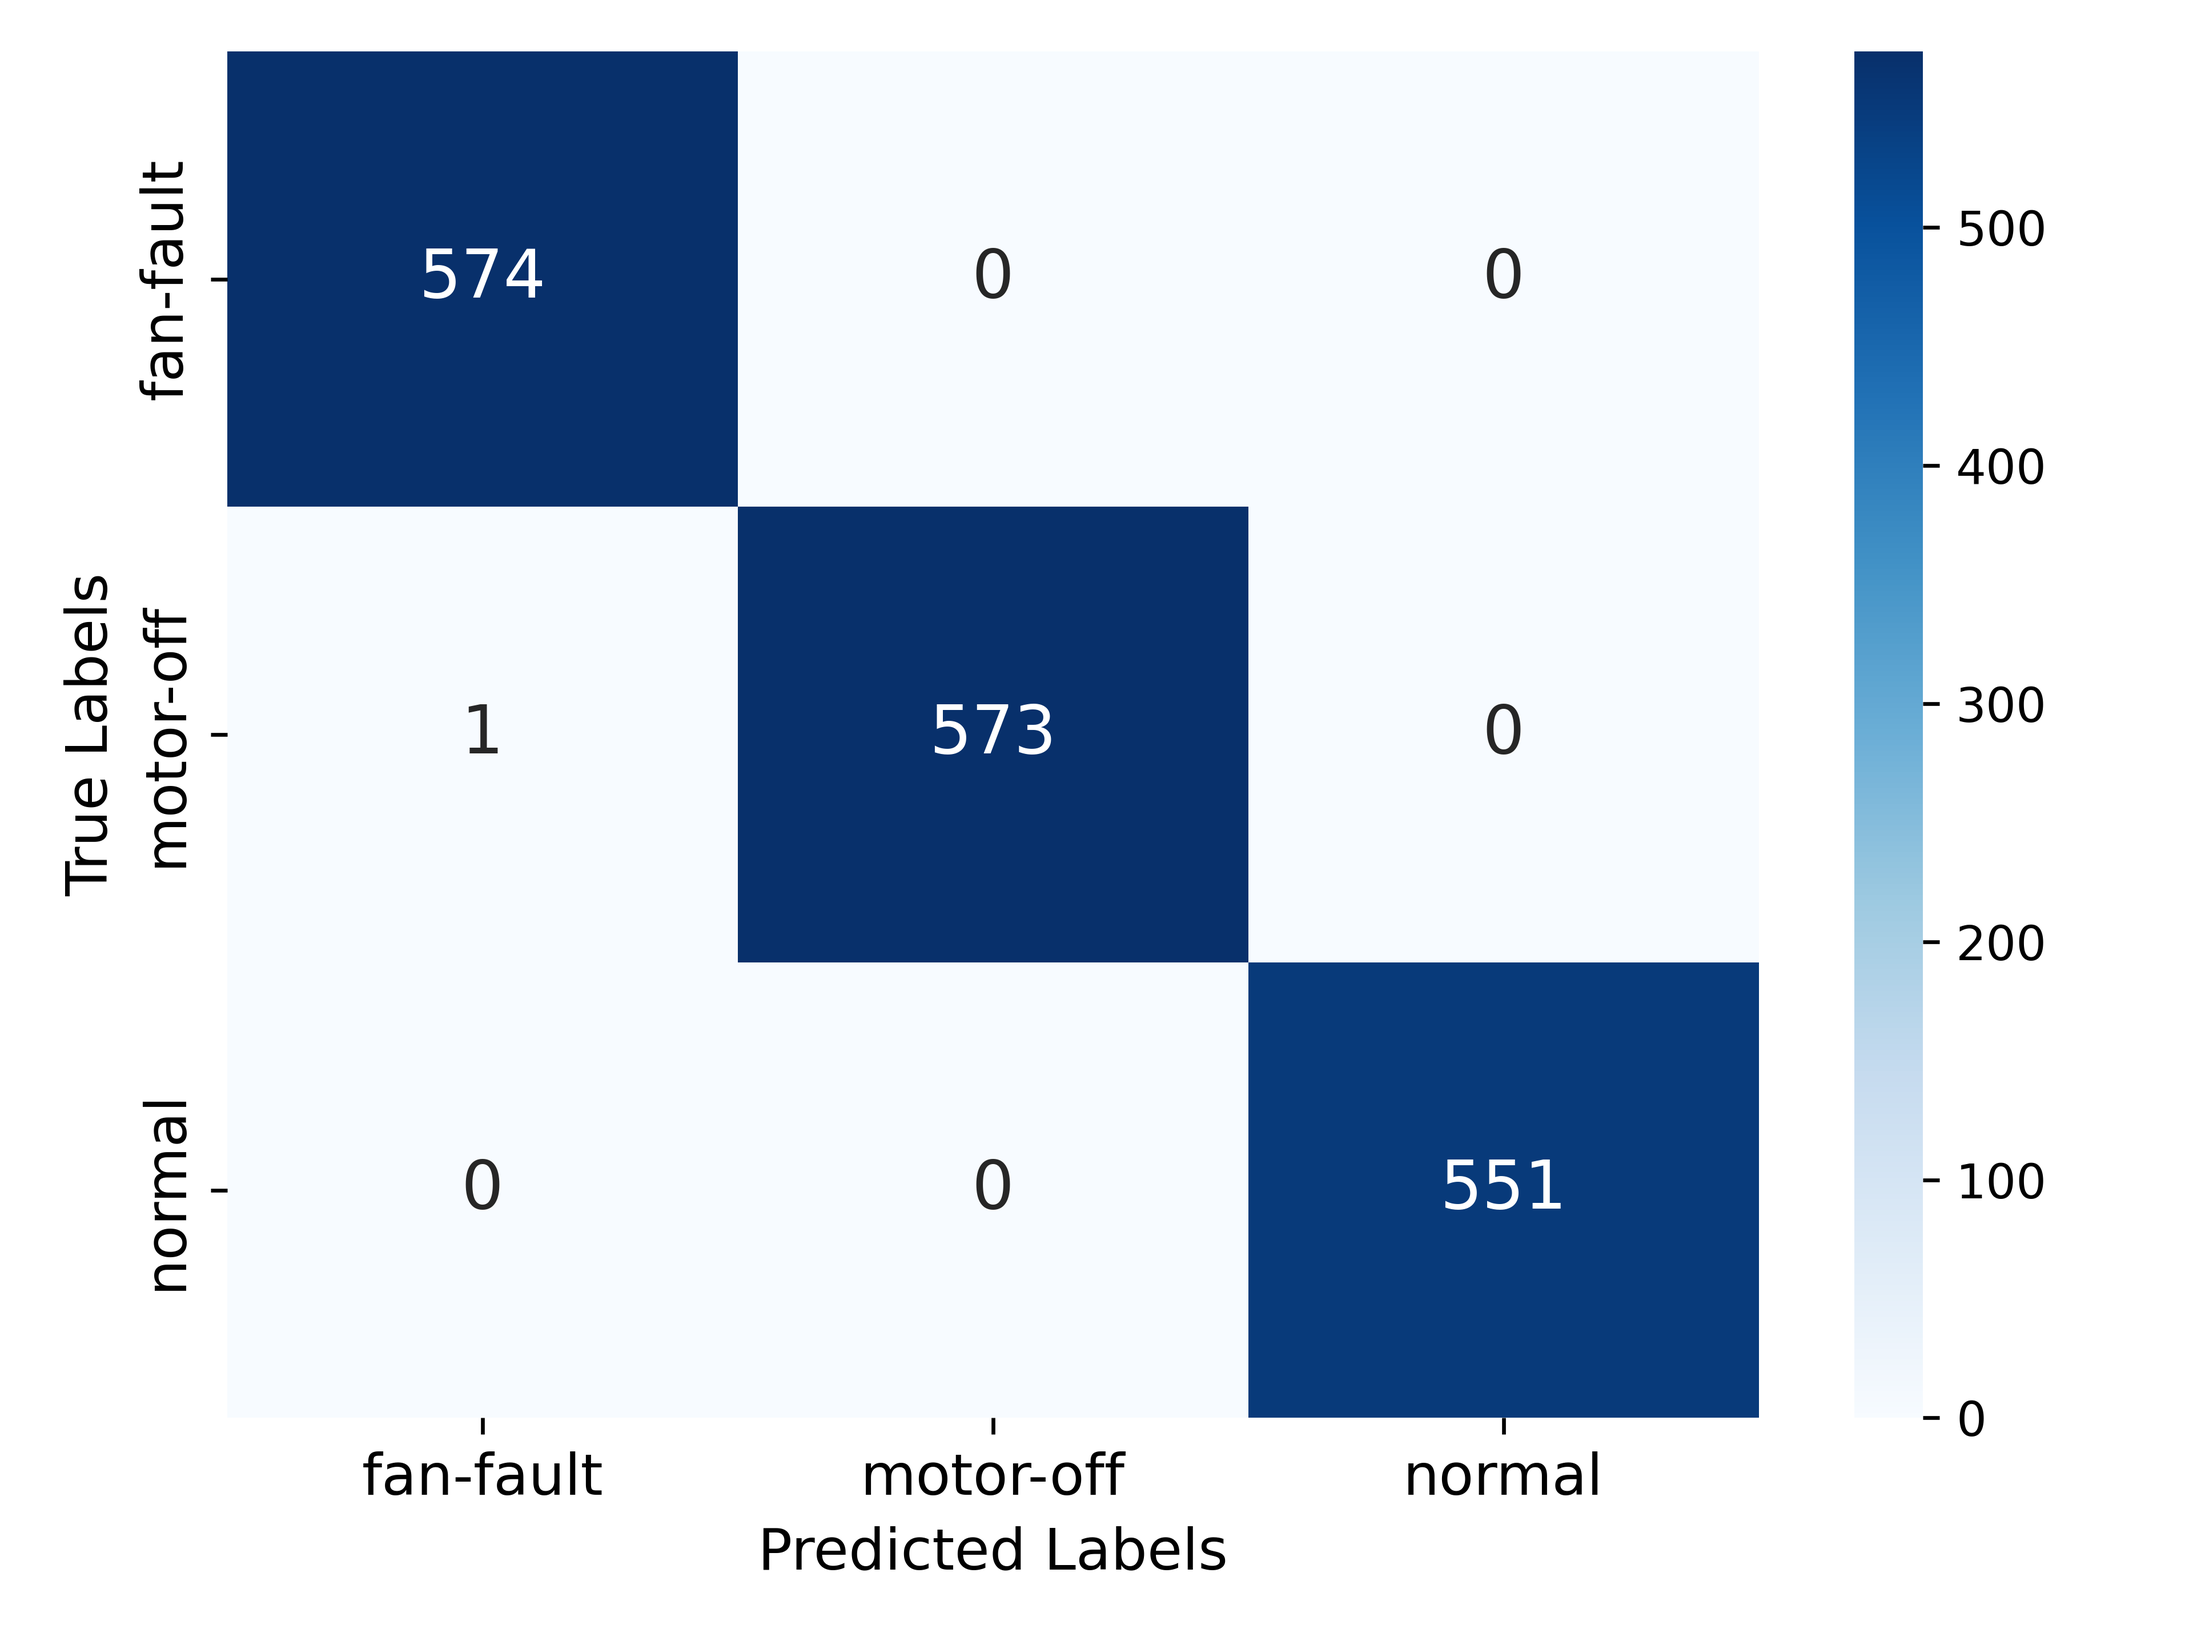
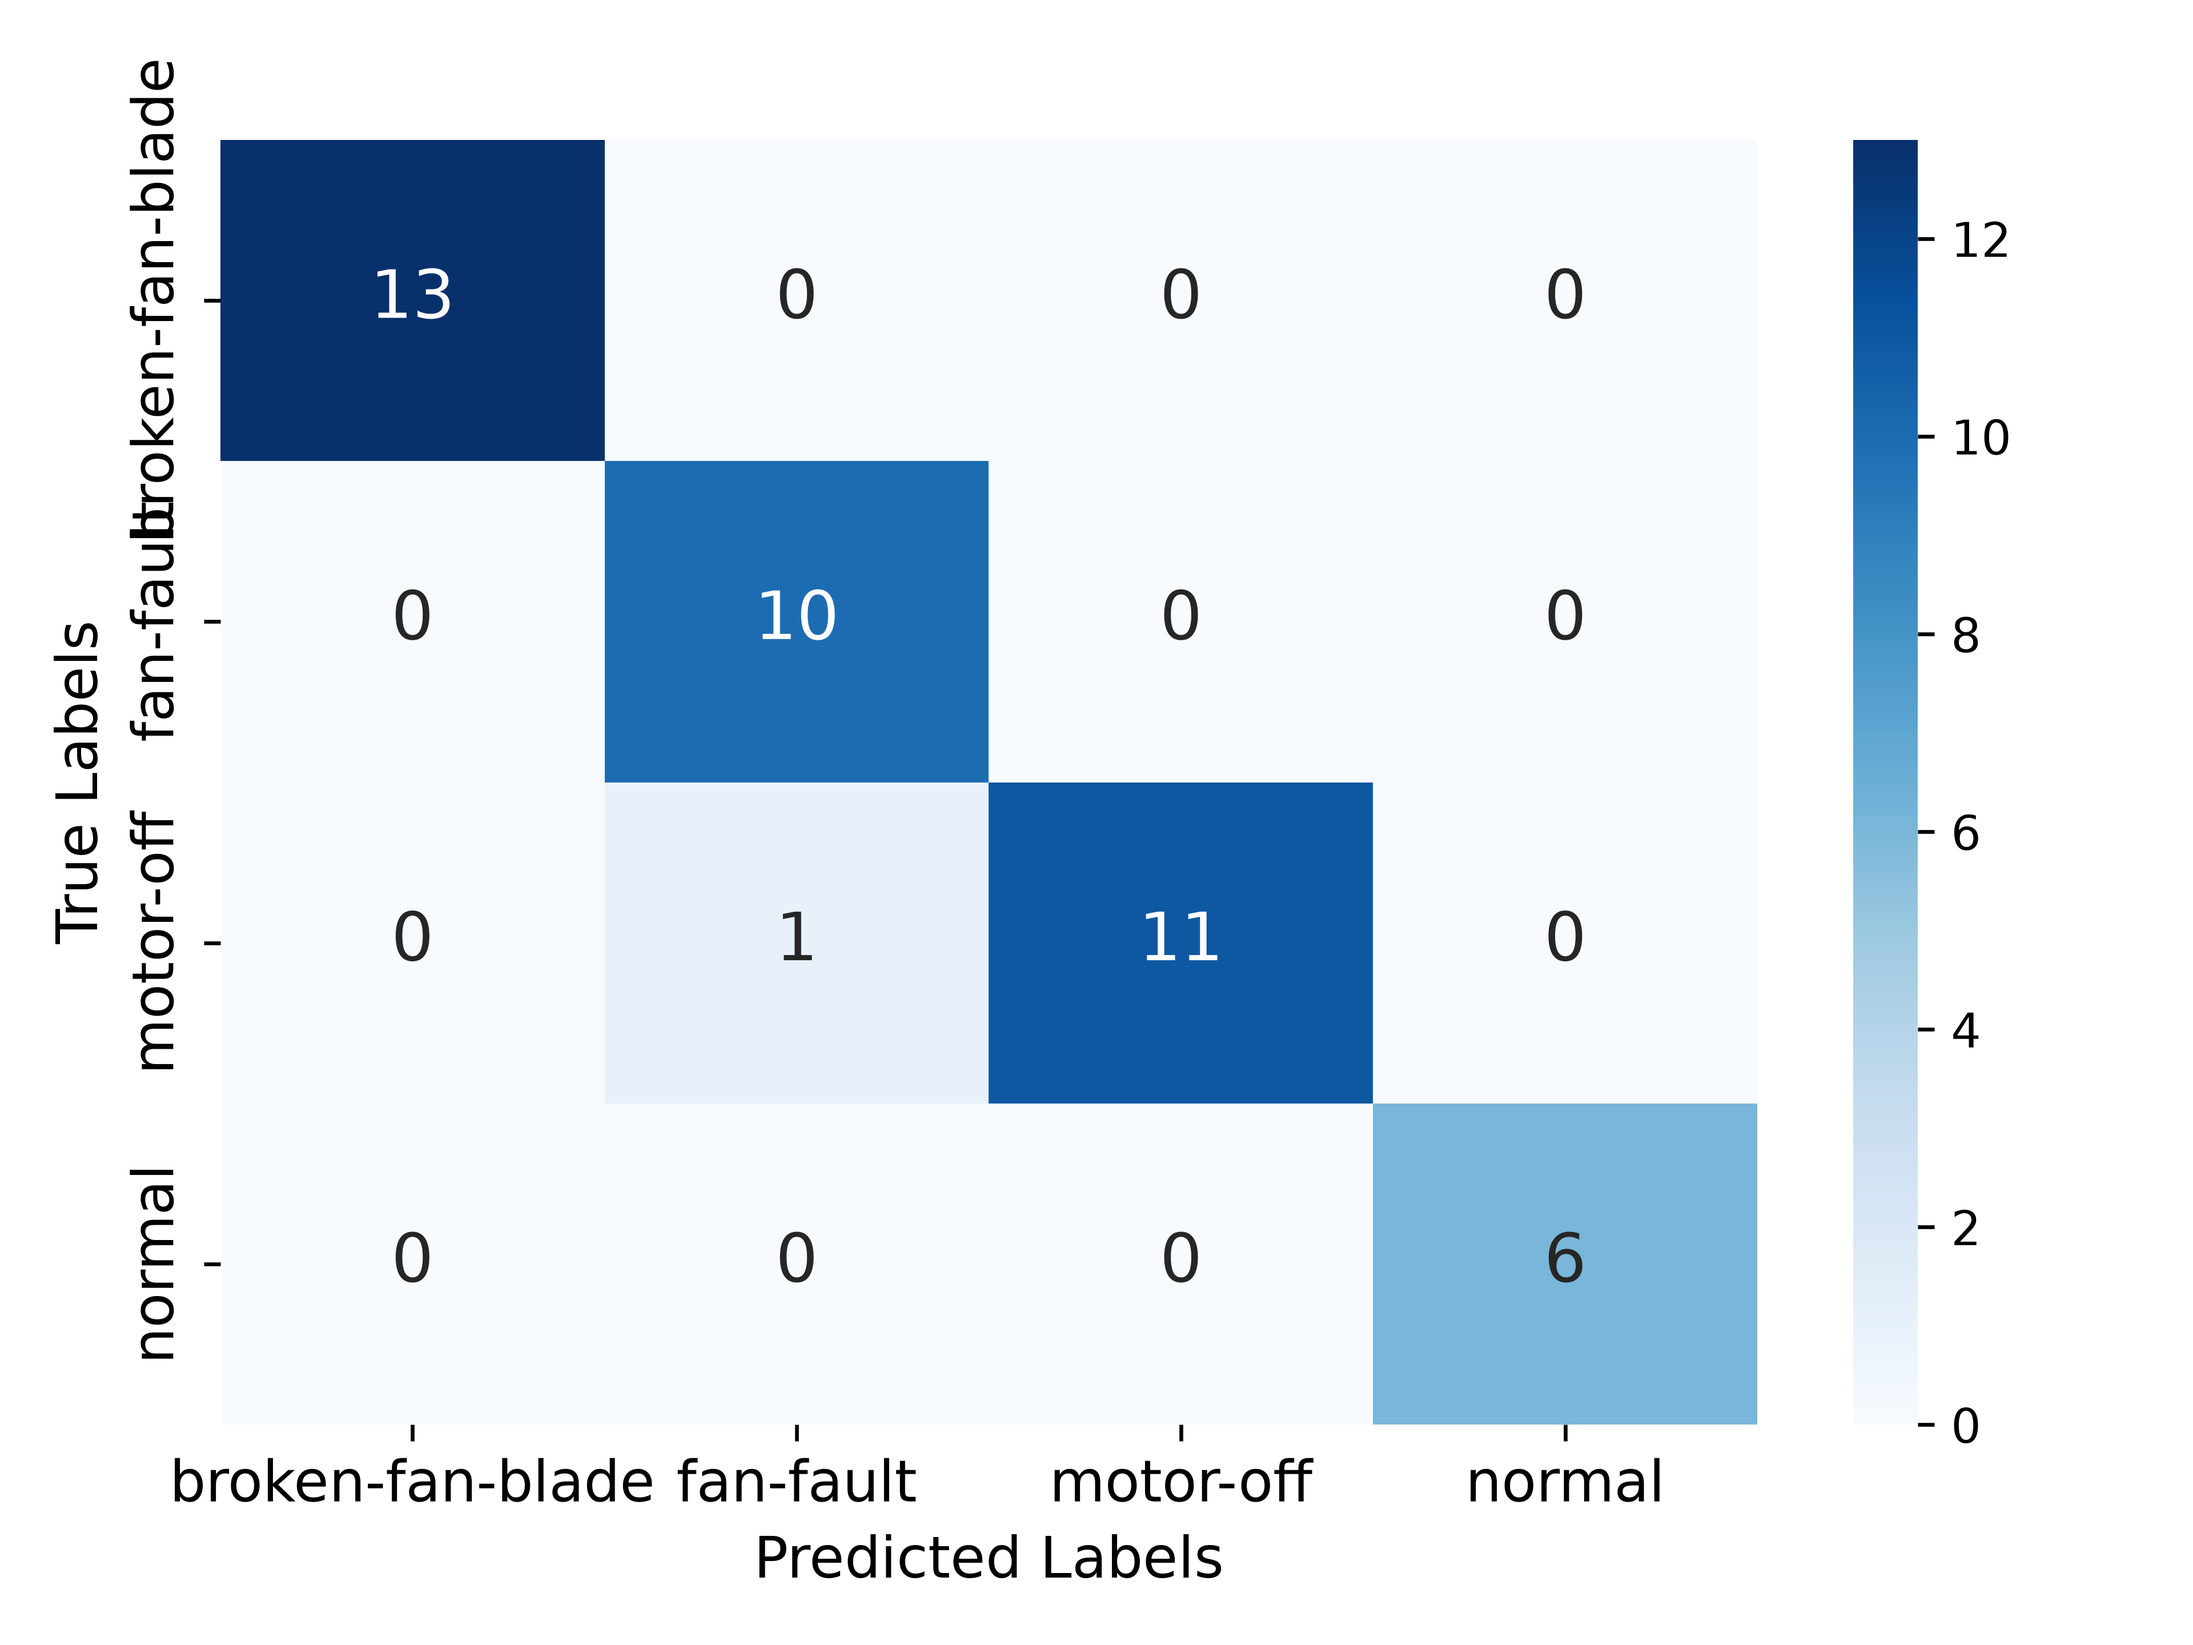
new data added

diff --git a/parse-radar-data.py b/parse-radar-data.py
@@ -3,18 +3,8 @@ import pandas as pd
 import numpy as np
 from os import listdir
 from os.path import isdir, join
-from config_parser import parseConfigFile
 
 dataset_path = 'data/radar-motor'
-config_file_path = "data/config_files/motor-range-doppler.cfg"
-
-configParameters = parseConfigFile(config_file_path, Rx_Ant=4, Tx_Ant=4)
-configParameters["numDopplerBins"] = 16
-configParameters["numRangeBins"] = 128
-
-prob_noise = 0.6  # 60% of frames will have noise
-
-print(configParameters)
 
 all_targets = [name for name in listdir(dataset_path) if isdir(join(dataset_path, name))]
 print(all_targets)
@@ -28,39 +18,15 @@ for index, target in enumerate(all_targets):
     y.extend([index] * len(target_files))
 
 
-def apply_2d_cfar(signal, guard_band_width, kernel_size, threshold_factor):
-    num_rows, num_cols = signal.shape
-    threshold_signal = np.zeros((num_rows, num_cols))
-    guard_band_area = (2 * guard_band_width + 1) ** 2 - (2 * kernel_size + 1) ** 2
-
-    for i in range(guard_band_width, num_rows - guard_band_width):
-        for j in range(guard_band_width, num_cols - guard_band_width):
-            noise_level = (np.sum(
-                signal[i - guard_band_width:i + guard_band_width + 1, j - guard_band_width:j + guard_band_width + 1]) -
-                           np.sum(signal[i - kernel_size:i + kernel_size + 1,
-                                  j - kernel_size:j + kernel_size + 1])) / guard_band_area
-            threshold = threshold_factor * noise_level
-            if signal[i, j] > threshold:
-                threshold_signal[i, j] = 1
-    return threshold_signal
-
-def min_max_norm(mat):
-    min_val = mat.min()
-    max_val = mat.max()
-    normalized_matrix = 2 * (mat - min_val) / (max_val - min_val) - 1
-    return normalized_matrix
-
-
-def calc_range_doppler(data_frame, packet_id, config):
+def calc_range_doppler(data_frame, packet_id,):
     payload = data_frame[packet_id].to_numpy()
     payload = 20 * np.log10(payload)
-    rangeDoppler = np.reshape(payload, (config["numDopplerBins"], config["numRangeBins"]), 'F')
-    rangeDoppler = np.roll(rangeDoppler, shift=len(rangeDoppler) // 2, axis=0)
-    return rangeDoppler
+    range_doppler = np.reshape(payload, (16, 128), 'F')
+    range_doppler = np.roll(range_doppler, shift=len(range_doppler) // 2, axis=0)
+    return range_doppler
 
 
 out_x_range_doppler = []
-out_x_range_doppler_min_max = []
 out_y_range_doppler = []
 
 for folder_idx, target in enumerate(all_targets):
@@ -72,25 +38,11 @@ for folder_idx, target in enumerate(all_targets):
         df_data = pd.read_csv(full_path)
 
         for col in df_data.columns:
-            data = calc_range_doppler(df_data, col, configParameters)
-
-            min_max_data = min_max_norm(data)
-
-            num_frames = min_max_data.shape[0]
-
-            noisy_frame_indices = random.sample(range(num_frames), int(prob_noise * num_frames))
-
-            noise = np.random.normal(0, 1, min_max_data.shape) # white noise
-
-            min_max_data[noisy_frame_indices] += noise[noisy_frame_indices]
-
+            data = calc_range_doppler(df_data, col)
             out_x_range_doppler.append(data)
-            out_x_range_doppler_min_max.append(min_max_data)
             out_y_range_doppler.append(folder_idx + 1)
 
 data_range_x = np.array(out_x_range_doppler)
-data_range_min_max_x = np.array(out_x_range_doppler_min_max)
 data_range_y = np.array(out_y_range_doppler)
 
 np.savez('data/npz_files/radar-motor.npz', out_x=data_range_x, out_y=data_range_y)
-np.savez('data/npz_files/radar-normalised-motor.npz', out_x=data_range_min_max_x, out_y=data_range_y)

diff --git a/time-fault-classifier.py b/time-fault-classifier.py
@@ -7,7 +7,7 @@ import seaborn as sns
 from os import listdir
 
 # Load data
-range_doppler_features = np.load("data/npz_files/radar-balanced-motor.npz", allow_pickle=True)
+range_doppler_features = np.load("data/npz_files/radar-motor.npz", allow_pickle=True)
 x_data, y_data = range_doppler_features['out_x'], range_doppler_features['out_y']
 
 # Get class count and names (sorted)
@@ -42,7 +42,7 @@ x_train, x_temp, y_train, y_temp = train_test_split(x_sequences, y_sequences, te
 x_val, x_test, y_val, y_test = train_test_split(x_temp, y_temp, test_size=test_ratio / (validation_ratio + test_ratio), shuffle=True)
 
 # TF datasets
-BATCH_SIZE = 60
+BATCH_SIZE = 5
 train_dataset = tf.data.Dataset.from_tensor_slices((x_train, y_train)).batch(BATCH_SIZE)
 validation_dataset = tf.data.Dataset.from_tensor_slices((x_val, y_val)).batch(BATCH_SIZE)
 test_dataset = tf.data.Dataset.from_tensor_slices((x_test, y_test)).batch(BATCH_SIZE)
@@ -120,7 +120,7 @@ model.summary()
 
 model.compile(
     loss=tf.keras.losses.CategoricalCrossentropy(),
-    optimizer=tf.keras.optimizers.Adam(learning_rate=0.001),
+    optimizer=tf.keras.optimizers.Adam(learning_rate=0.0001),
     metrics=['accuracy']
 )
 
@@ -138,7 +138,7 @@ checkpoint = tf.keras.callbacks.ModelCheckpoint(
 # Train
 history = model.fit(
     train_dataset,
-    epochs=10,
+    epochs=50,
     validation_data=validation_dataset,
     callbacks=[early_stopping, checkpoint]
 )
